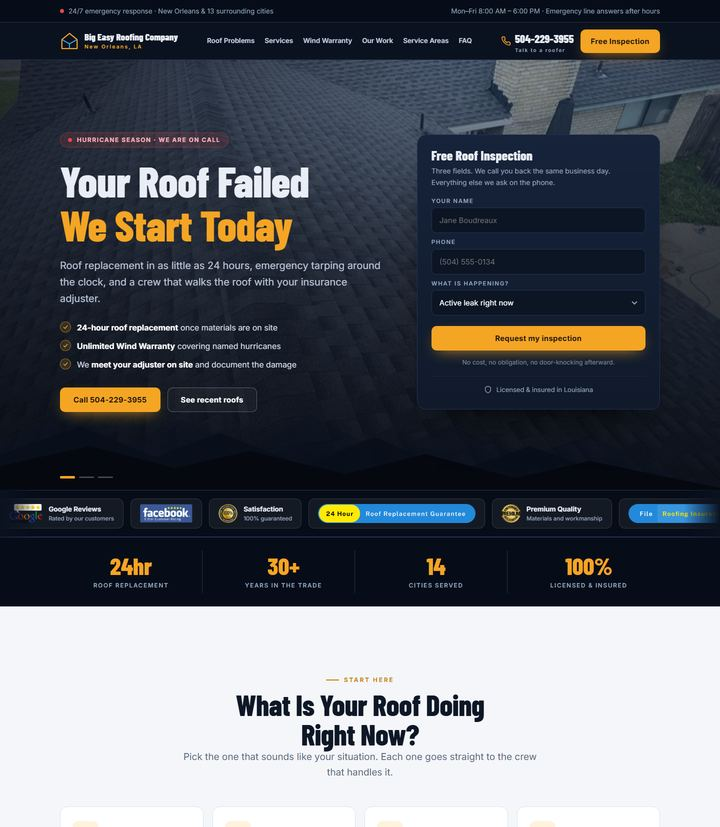
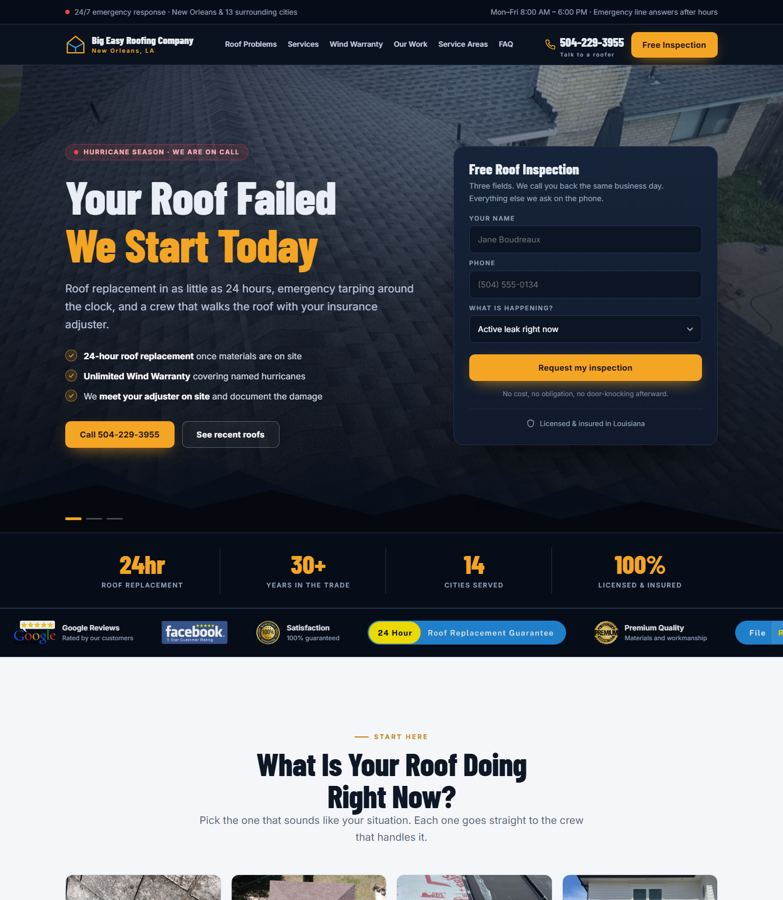
Concept A selected, and its dead space closed
The team narrowed it to A and C and Cynthia picked A, so the chooser now
marks A as the direction and keeps B and C up for reference.

Concept A got the same dead-space pass B had:

- triage cards lead with a photograph instead of a bare icon
- process steps are proper cards that fill the row, with a gap between them
- the reviews row gains a rating summary panel so it fills four columns
- the service-area list is two columns so it balances the photo beside it
- the FAQ closes with a call and booking card instead of trailing off
- the services heading is centred rather than floating left of empty space

diff --git a/concept-A-storm-watch.html b/concept-A-storm-watch.html
@@ -285,7 +285,7 @@ section.s{padding:clamp(72px,9vw,128px) 0;position:relative}
 
 /* ---------- areas grid ---------- */
 .areas{display:grid;grid-template-columns:1fr 1fr;gap:56px;align-items:center}
-.arealist{display:grid;grid-template-columns:repeat(3,1fr);gap:10px}
+.arealist{display:grid;grid-template-columns:repeat(2,1fr);gap:10px;align-content:start}
 .arealist a{padding:13px 14px;border:1px solid var(--line);border-radius:9px;font:600 14px/1 Inter;display:flex;align-items:center;gap:9px;transition:border-color .25s,background .25s,transform .25s var(--ease)}
 .arealist a::before{content:"";width:6px;height:6px;border-radius:50%;background:var(--amber);flex:0 0 6px}
 .arealist a:hover{border-color:var(--amber);background:rgba(245,165,36,.07);transform:translateX(4px)}
@@ -325,9 +325,46 @@ footer a:hover{color:var(--amber)}
 .note b{color:var(--amber);display:block;margin-bottom:5px;font-size:11px;letter-spacing:.14em;text-transform:uppercase}
 .note button{position:absolute;top:-9px;right:-9px;width:24px;height:24px;border-radius:50%;background:var(--amber);border:none;cursor:pointer;color:#20160A;font-weight:800;line-height:1}
 
+/* ---------- triage cards carry a photograph ---------- */
+.tcard{padding:0}
+.tcard .tshot{position:relative;height:180px;overflow:hidden;margin:0}
+.tcard .tshot i{position:absolute;inset:0;display:block;background-size:cover;background-position:center;transition:transform 1.2s var(--ease)}
+.tcard:hover .tshot i{transform:scale(1.07)}
+.tcard .tbody{padding:26px 24px 24px}
+.tcard .ic{position:absolute;top:148px;left:22px;z-index:2;margin:0;background:#fff;border:1px solid #DCE3EE;box-shadow:0 10px 24px -12px rgba(16,32,58,.45)}
+.tcard h3{margin-top:16px}
+
+/* ---------- process step cards ---------- */
+.steps{grid-template-columns:repeat(4,1fr);gap:18px}
+.steps::before{top:calc(180px + 34px)}
+.steps .fill{top:calc(180px + 34px)}
+.step{padding:0;background:#fff;border:1px solid #DCE3EE;border-radius:var(--r);overflow:hidden;display:flex;flex-direction:column;transition:transform .4s var(--ease),box-shadow .4s var(--ease)}
+.step:hover{transform:translateY(-6px);box-shadow:0 26px 52px -30px rgba(16,32,58,.4)}
+.step .shot{position:relative;height:180px;overflow:hidden;border:none;border-radius:0;margin:0}
+.step .b{margin:-34px auto 0}
+.step .sbody{padding:14px 20px 24px}
+
+/* ---------- reviews with a rating summary panel ---------- */
+.revs{grid-template-columns:.85fr repeat(3,1fr)}
+.revsum{background:#0E1A2C;border:1px solid var(--line);border-radius:var(--r);padding:28px 24px;display:flex;flex-direction:column;color:var(--text)}
+.revsum .big{font-family:'Barlow Condensed';font-weight:800;font-size:56px;line-height:1;color:var(--amber)}
+.revsum .st{color:#F0A500;letter-spacing:3px;font-size:16px;margin:10px 0 6px}
+.revsum p{font-size:13.5px;color:var(--muted);margin:0 0 18px}
+.revsum .badges{margin-top:auto;display:grid;gap:10px}
+.revsum .badges{margin-top:auto;display:flex;align-items:center;gap:16px;flex-wrap:wrap}
+.revsum .badges img{height:40px;width:auto;opacity:.95}
+
+/* ---------- faq closing card ---------- */
+.faqcta{margin-top:26px;padding:24px 26px;border:1px solid #DCE3EE;border-radius:var(--r);background:#fff;display:flex;align-items:center;justify-content:space-between;gap:22px;flex-wrap:wrap}
+.faqcta h3{margin-bottom:4px}
+.faqcta p{margin:0;font-size:14.5px;color:var(--muteddark)}
+.faqcta .bts{display:flex;gap:10px;flex-wrap:wrap}
+
 @media (max-width:1024px){
   .hero-grid,.radarwrap,.areas,.cta .wrap{grid-template-columns:1fr;gap:40px}
-  .triage,.svc,.revs{grid-template-columns:1fr 1fr}
+  .triage,.svc{grid-template-columns:1fr 1fr}
+  .revs{grid-template-columns:1fr 1fr}
+  .steps{grid-template-columns:1fr 1fr;gap:18px}
   .work,.faqgrid{grid-template-columns:1fr}
   .wtile.big{min-height:260px}
   .faqpic{position:static;aspect-ratio:16/9}
@@ -339,7 +376,8 @@ footer a:hover{color:var(--amber)}
 }
 @media (max-width:680px){
   body{font-size:16px}
-  .triage,.svc,.revs,.strip .wrap,.steps,.fgrid,.arealist{grid-template-columns:1fr}
+  .triage,.svc,.revs,.strip .wrap,.steps,.fgrid{grid-template-columns:1fr}
+  .arealist{grid-template-columns:1fr}
   .stat{border-right:none;border-bottom:1px solid var(--line);padding-bottom:16px}
   .stat:last-child{border-bottom:none}
   .phone small{display:none}.phone{font-size:19px}
@@ -364,7 +402,7 @@ footer a:hover{color:var(--amber)}
 <body>
 
 <div class="note" id="note"><button onclick="document.getElementById('note').remove()">×</button>
-<b>Concept A</b>Storm Watch. Dark, cinematic, urgency-led. Scroll to see the rain canvas, radar sweep, parallax roofline, count-up stats and the before/after drag slider.</div>
+<b>Concept A</b>Storm Watch. Dark, cinematic, urgency-led. Scroll to see the rain canvas, crossfading hero photos, radar sweep, parallax roofline and the count-up stats.</div>
 
 <!-- ============ UTILITY BAR ============ -->
 <div class="util">
@@ -508,28 +546,36 @@ footer a:hover{color:var(--amber)}
     </div>
     <div class="triage">
       <a class="tcard rv" href="#">
-        <span class="ic"><svg viewBox="0 0 24 24"><path d="M12 2s6 7.6 6 11.4A6 6 0 016 13.4C6 9.6 12 2 12 2z"/></svg></span>
+        <figure class="tshot"><i style="background-image:url(_assets/sq-shingle-closeup.jpg)"></i></figure>
+        <div class="tbody"><span class="ic"><svg viewBox="0 0 24 24"><path d="M12 2s6 7.6 6 11.4A6 6 0 016 13.4C6 9.6 12 2 12 2z"/></svg></span>
         <h3>It Is Leaking</h3>
         <p>Water is coming through the ceiling. We tarp today and give you a written scope before we leave.</p>
         <span class="go">Emergency roofing <span>→</span></span>
+        </div>
       </a>
       <a class="tcard rv d1" href="#">
-        <span class="ic"><svg viewBox="0 0 24 24"><path d="M13 2L4.1 13.3a1 1 0 00.8 1.7H11l-1 7 8.9-11.3a1 1 0 00-.8-1.7H12l1-7z"/></svg></span>
+        <figure class="tshot"><i style="background-image:url(_assets/sq-aerial-hip.jpg)"></i></figure>
+        <div class="tbody"><span class="ic"><svg viewBox="0 0 24 24"><path d="M13 2L4.1 13.3a1 1 0 00.8 1.7H11l-1 7 8.9-11.3a1 1 0 00-.8-1.7H12l1-7z"/></svg></span>
         <h3>A Storm Hit It</h3>
         <p>Wind, hail, or a named hurricane. We photograph every slope and quantify the loss.</p>
         <span class="go">Storm damage <span>→</span></span>
+        </div>
       </a>
       <a class="tcard rv d2" href="#">
-        <span class="ic"><svg viewBox="0 0 24 24"><path d="M14 2H6a2 2 0 00-2 2v16a2 2 0 002 2h12a2 2 0 002-2V8l-6-6z"/><path d="M14 2v6h6M9 15h6M9 11h3"/></svg></span>
+        <figure class="tshot"><i style="background-image:url(_assets/sq-underlayment.jpg)"></i></figure>
+        <div class="tbody"><span class="ic"><svg viewBox="0 0 24 24"><path d="M14 2H6a2 2 0 00-2 2v16a2 2 0 002 2h12a2 2 0 002-2V8l-6-6z"/><path d="M14 2v6h6M9 15h6M9 11h3"/></svg></span>
         <h3>I Am Filing a Claim</h3>
         <p>We meet your adjuster on the roof and hand over documentation they can actually use.</p>
         <span class="go">Insurance claims <span>→</span></span>
+        </div>
       </a>
       <a class="tcard rv d3" href="#">
-        <span class="ic"><svg viewBox="0 0 24 24"><path d="M3 11l9-8 9 8"/><path d="M5 10v10h14V10"/><path d="M9 20v-6h6v6"/></svg></span>
+        <figure class="tshot"><i style="background-image:url(_assets/sq-finished-house.jpg)"></i></figure>
+        <div class="tbody"><span class="ic"><svg viewBox="0 0 24 24"><path d="M3 11l9-8 9 8"/><path d="M5 10v10h14V10"/><path d="M9 20v-6h6v6"/></svg></span>
         <h3>It Is Just Old</h3>
         <p>Nothing has failed yet. Get a written condition report and a real replacement timeline.</p>
         <span class="go">Roof replacement <span>→</span></span>
+        </div>
       </a>
     </div>
   </div>
@@ -566,10 +612,10 @@ footer a:hover{color:var(--amber)}
 <!-- ============ SERVICES ============ -->
 <section class="s light" id="services">
   <div class="wrap">
-    <div class="head rv">
+    <div class="head ctr rv">
       <span class="eyebrow">What we do</span>
       <h2>Residential, Commercial,<br>and Every Roofing Type</h2>
-      <p class="lead">One licensed crew. Shingle, metal, slate, tile, flat, torch down, single ply, built up, cedar shake.</p>
+      <p class="lead" style="margin-inline:auto">One licensed crew. Shingle, metal, slate, tile, flat, torch down, single ply, built up, cedar shake.</p>
     </div>
     <div class="svc">
       <a class="scard rv" href="#">
@@ -659,10 +705,10 @@ footer a:hover{color:var(--amber)}
     </div>
     <div class="steps rv" id="steps" style="--muted:#5A6980">
       <span class="fill"></span>
-      <div class="step"><figure class="shot"><i style="background-image:url(_assets/sq-tool-in-hand.jpg)"></i></figure><div class="b" style="background:#fff;border-color:#DCE3EE">1</div><h3>We Look at It</h3><p style="color:#5A6980">Free inspection, every slope photographed, written condition report in your hands.</p></div>
-      <div class="step"><figure class="shot"><i style="background-image:url(_assets/sq-shingle-closeup.jpg)"></i></figure><div class="b" style="background:#fff;border-color:#DCE3EE">2</div><h3>You Get a Number</h3><p style="color:#5A6980">Line-item written estimate. If it is an insurance job, a scope of loss your adjuster can read.</p></div>
-      <div class="step"><figure class="shot"><i style="background-image:url(_assets/sq-underlayment.jpg)"></i></figure><div class="b" style="background:#fff;border-color:#DCE3EE">3</div><h3>We Schedule Materials</h3><p style="color:#5A6980">Nothing is torn off until the shingles are on site. That is what makes 24 hours possible.</p></div>
-      <div class="step"><figure class="shot"><i style="background-image:url(_assets/sq-shingle-aerial.jpg)"></i></figure><div class="b" style="background:#fff;border-color:#DCE3EE">4</div><h3>One Day on the Roof</h3><p style="color:#5A6980">Tear-off, decking check, underlayment, new roof, magnet sweep of your yard.</p></div>
+      <div class="step"><figure class="shot"><i style="background-image:url(_assets/sq-tool-in-hand.jpg)"></i></figure><div class="b" style="background:#fff;border-color:#DCE3EE">1</div><div class="sbody"><h3>We Look at It</h3><p style="color:#5A6980">Free inspection, every slope photographed, written condition report in your hands.</p></div></div>
+      <div class="step"><figure class="shot"><i style="background-image:url(_assets/sq-shingle-closeup.jpg)"></i></figure><div class="b" style="background:#fff;border-color:#DCE3EE">2</div><div class="sbody"><h3>You Get a Number</h3><p style="color:#5A6980">Line-item written estimate. If it is an insurance job, a scope of loss your adjuster can read.</p></div></div>
+      <div class="step"><figure class="shot"><i style="background-image:url(_assets/sq-underlayment.jpg)"></i></figure><div class="b" style="background:#fff;border-color:#DCE3EE">3</div><div class="sbody"><h3>We Schedule Materials</h3><p style="color:#5A6980">Nothing is torn off until the shingles are on site. That is what makes 24 hours possible.</p></div></div>
+      <div class="step"><figure class="shot"><i style="background-image:url(_assets/sq-shingle-aerial.jpg)"></i></figure><div class="b" style="background:#fff;border-color:#DCE3EE">4</div><div class="sbody"><h3>One Day on the Roof</h3><p style="color:#5A6980">Tear-off, decking check, underlayment, new roof, magnet sweep of your yard.</p></div></div>
     </div>
   </div>
 </section>
@@ -675,6 +721,15 @@ footer a:hover{color:var(--amber)}
       <h2>From New Orleans Homeowners</h2>
     </div>
     <div class="revs">
+      <div class="revsum rv">
+        <div class="big">5.0</div>
+        <div class="st">&#9733;&#9733;&#9733;&#9733;&#9733;</div>
+        <p>Rated by New Orleans homeowners across Google and Facebook. <em>[Review count to be confirmed against the live Business Profile.]</em></p>
+        <div class="badges">
+          <img src="_assets/badges/google-rating.png" alt="Google Reviews" loading="lazy">
+          <img src="_assets/badges/facebook-rating.png" alt="Facebook 5 star rating" loading="lazy">
+        </div>
+      </div>
       <div class="rev rv"><div class="stars">★★★★★</div><p>"They made our re-roofing project seamless. The team was organized and finished inside the agreed timeframe."</p><div class="who"><span class="av">B</span><div><b>Bella Roberts</b><span>New Orleans · Re-roof</span></div></div></div>
       <div class="rev rv d1"><div class="stars">★★★★★</div><p>"Placeholder review. Replace with a real Google review pulled from the Business Profile before launch."</p><div class="who"><span class="av">R</span><div><b>Reviewer name</b><span>City · Job type</span></div></div></div>
       <div class="rev rv d2"><div class="stars">★★★★★</div><p>"Placeholder review. Replace with a real Google review pulled from the Business Profile before launch."</p><div class="who"><span class="av">R</span><div><b>Reviewer name</b><span>City · Job type</span></div></div></div>
@@ -725,6 +780,16 @@ footer a:hover{color:var(--amber)}
       <div class="q"><button>Will you handle my insurance claim?</button><div class="a"><p>We are roofers, not public adjusters, so we do not negotiate your claim for you. What we do is meet your adjuster on site, walk the roof with them, and hand over photographs, measurements, and a scope of loss so the decision is made on evidence.</p></div></div>
       <div class="q"><button>Do you charge for the inspection?</button><div class="a"><p>No. The roof inspection and the written estimate are free, and there is no obligation afterward. We do not door-knock and we do not follow up more than twice.</p></div></div>
       <div class="q"><button>Are you licensed and insured in Louisiana?</button><div class="a"><p>Yes, licensed and insured. <em>[License number to be published here once confirmed.]</em> Ask any roofer for their number before they set foot on your property.</p></div></div>
+      <div class="faqcta rv d2">
+        <div>
+          <h3>Still Have a Question?</h3>
+          <p>Ask a roofer directly. No script, no call centre.</p>
+        </div>
+        <div class="bts">
+          <a href="tel:5042293955" class="btn btn-amber">Call 504-229-3955</a>
+          <a href="#estimate" class="btn btn-ghost">Book an inspection</a>
+        </div>
+      </div>
     </div>
     </div>
   </div>

diff --git a/index.html b/index.html
@@ -42,6 +42,14 @@ section.note{padding:36px 0 60px;border-top:1px solid var(--line)}
 .pill{display:inline-block;font:600 11px/1 Inter;letter-spacing:.1em;text-transform:uppercase;padding:5px 10px;border-radius:999px;margin-right:6px}
 .pill.w{background:rgba(251,191,36,.14);color:var(--warn);border:1px solid rgba(251,191,36,.34)}
 footer{border-top:1px solid var(--line);padding:24px 0 50px;color:var(--muted);font-size:13px}
+.card.picked{border-color:var(--ok);box-shadow:0 0 0 1px var(--ok)}
+.card.picked .btn{background:var(--ok);color:#08240F}
+.card.picked .btn:hover{background:#6EE79B}
+.chosen{display:inline-flex;align-self:flex-start;align-items:center;gap:7px;background:rgba(74,222,128,.14);border:1px solid rgba(74,222,128,.4);color:var(--ok);padding:5px 11px;border-radius:999px;font:700 10.5px/1 Inter;letter-spacing:.14em;text-transform:uppercase;margin-bottom:10px}
+.card.dim{opacity:.72}
+.card.dim:hover{opacity:1}
+.decided{background:rgba(74,222,128,.09);border:1px solid rgba(74,222,128,.28);border-radius:var(--r);padding:18px 22px;margin-top:34px;color:#CFEBD9;font-size:15px}
+.decided b{color:var(--ok)}
 @media(max-width:900px){.grid{grid-template-columns:1fr}.cols{grid-template-columns:1fr}}
 </style>
 </head>
@@ -51,18 +59,24 @@ footer{border-top:1px solid var(--line);padding:24px 0 50px;color:var(--muted);f
   <div class="wrap">
     <span class="tag">Infintech Designs · Internal review</span>
     <h1>Big Easy Roofing Company<br>Homepage Concepts</h1>
-    <p class="lede">Three directions for the homepage redesign. All three are working pages, not
-    flat mockups — scroll them, hover things, click the interactive bits. Open each one and tell
-    Cynthia which direction to build out.</p>
+    <p class="lede">Three directions for the homepage redesign, all working pages rather than flat
+    mockups. <strong>Concept A is the one going forward.</strong> B and C stay here so the
+    reasoning is still visible.</p>
   </div>
 </header>
 
 <div class="wrap">
+  <div class="decided">
+    <b>Decided:</b> the team narrowed it to A and C, and Cynthia picked
+    <b>Concept A — Storm Watch</b>. That is the direction being built out.
+    B and C stay up for reference.
+  </div>
   <div class="grid">
 
-    <article class="card">
+    <article class="card picked">
       <div class="shot"><img src="thumbs/A.jpg" alt="Concept A preview" loading="lazy"></div>
       <div class="body">
+        <span class="chosen">&#10003; Selected</span>
         <div class="letter">Concept A</div>
         <h2>Storm Watch</h2>
         <p>Dark, cinematic, built around the moment the roof fails. For owning emergency and storm-damage searches.</p>
@@ -75,7 +89,7 @@ footer{border-top:1px solid var(--line);padding:24px 0 50px;color:var(--muted);f
       </div>
     </article>
 
-    <article class="card">
+    <article class="card dim">
       <div class="shot"><img src="thumbs/B.jpg" alt="Concept B preview" loading="lazy"></div>
       <div class="body">
         <div class="letter">Concept B</div>
@@ -90,7 +104,7 @@ footer{border-top:1px solid var(--line);padding:24px 0 50px;color:var(--muted);f
       </div>
     </article>
 
-    <article class="card">
+    <article class="card dim">
       <div class="shot"><img src="thumbs/C.jpg" alt="Concept C preview" loading="lazy"></div>
       <div class="body">
         <div class="letter">Concept C</div>
@@ -112,12 +126,11 @@ footer{border-top:1px solid var(--line);padding:24px 0 50px;color:var(--muted);f
   <div class="wrap">
     <div class="cols">
       <div class="box">
-        <h4>What to look at</h4>
+        <h4>Where this goes next</h4>
         <ol>
-          <li>Which direction fits a New Orleans roofer that competes on trust, not price?</li>
-          <li>Scroll the whole page — each section is designed differently on purpose.</li>
-          <li>Try the interactive bits: A's photo slider, B's roof layers, C's tilting cards.</li>
-          <li>Check it on your phone too.</li>
+          <li>Concept A is the build direction. The remaining page templates get designed to match it.</li>
+          <li>The open questions beside this still need answering before anything goes live.</li>
+          <li>Comments on A are still welcome — send them to Cynthia.</li>
         </ol>
       </div>
       <div class="box">
